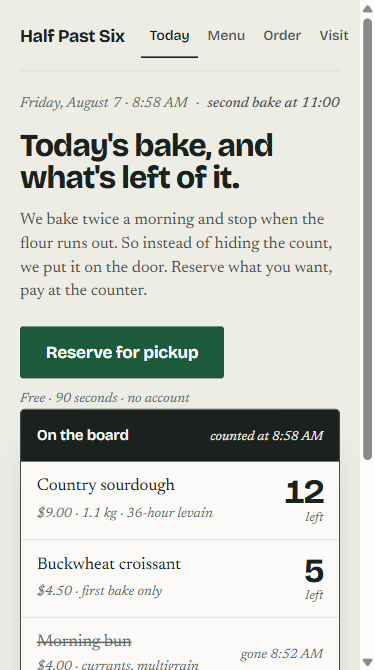
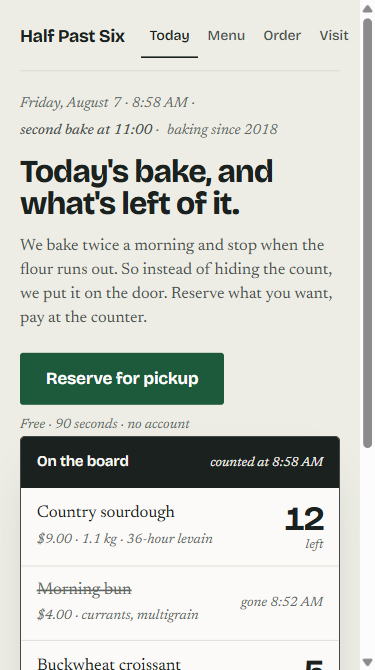
Phase 2 audit: fixes 01+03 and 05, rescore 7/7
Fold now owns the screen: min-height calc(100vh - 79px) with centered
columns on desktop (dead space 263px -> 0, column offset 204px -> 0), the
gone row moved to second position so the project signature lands inside the
375x670 fold (bottom 641px, was 685). Board rows breathe at 19px 22px,
head/foot at 15px.

Origin fact added to the stamp ("baking since 2018") to close research fear
number two above the fold. Side find: stamp separators re-anchored to
segment ends so a wrapped line never starts with a dangling dot.

Re-measured everything: zero contrast failures, zero taps under 44px, zero
horizontal overflow. Rescore in research/premium-audit.md: 7/7 after three
fix rounds from 3/7.

Changed region(s): [[0.0293, 0.1493, 0.9093, 1.0], [0.6453, 0.9552, 0.88, 1.0], [0.968, 0.6567, 0.9973, 0.6866]]

diff --git a/mockup/mockup.css b/mockup/mockup.css
@@ -94,7 +94,10 @@ body {
   display: flex; flex-wrap: wrap; gap: 4px 8px; align-items: baseline;
   font-variant-numeric: lining-nums;
 }
-.stamp b { color: var(--iron-2); font-weight: 500; }
+/* Разделительные точки сидят в конце сегмента, а не отдельными флекс-детьми:
+   иначе при переносе точка повисает в начале строки и читается как маркер */
+.stamp b { color: var(--iron-2); font-weight: 500; white-space: nowrap; }
+.stamp b .sep { color: var(--iron-3); font-weight: 400; }
 
 h1 {
   font-family: var(--display);
@@ -213,17 +216,22 @@ h1 {
   .site-nav a { font-size: 14.5px; padding: 0 11px; }
   .site-head { padding: 18px 0 16px; }
 
+  /* Аудит, пункты 01+03: контент кончался на 637px из 900 — 263px мёртвой
+     муки внизу и 204px под левой колонкой. Сгиб занимает весь экран за
+     вычетом шапки (79px) и центрирует обе колонки по вертикали */
   .fold {
     display: grid; grid-template-columns: minmax(0, 1fr) minmax(430px, 520px);
-    gap: 64px; align-items: start; padding: 56px 0 72px;
+    gap: 64px; align-items: center; padding: 48px 0;
+    min-height: calc(100vh - 79px);
   }
-  .fold > .col-left { padding-top: 6px; }
   .lede { font-size: 18.5px; margin-bottom: 28px; }
   .row .count { font-size: 46px; }
   .row .name { font-size: 18px; }
-  /* Отступы строк остаются пунктом 03 — здесь только иерархия */
-  .row { padding: 16px 20px; }
-  .board-head, .board-foot { padding-left: 20px; padding-right: 20px; }
+  /* Пункт 03: строки доски дышат, а не считают пиксели */
+  .row { padding: 19px 22px; }
+  .board-head { padding: 15px 22px; }
+  .board-foot { padding: 15px 22px; }
+  .board-foot a { margin: -16px 0; }
 }
 
 /* ================= Внутренний блок: заказ ================= */

diff --git a/mockup/index.html b/mockup/index.html
@@ -27,9 +27,9 @@
 
     <div class="col-left">
       <p class="stamp">
-        <span>Friday, August 7 · 8:58 AM</span>
-        <span>·</span>
-        <b>second bake at 11:00</b>
+        <span>Friday, August 7 · 8:58 AM ·</span>
+        <b>second bake at 11:00 <span class="sep">·</span></b>
+        <span>baking since 2018</span>
       </p>
 
       <h1>Today's bake, and what's left of it.</h1>
@@ -56,16 +56,16 @@
         <span class="count">12<small>left</small></span>
       </div>
 
-      <div class="row">
-        <span class="name">Buckwheat croissant</span>
-        <span class="desc">$4.50 · first bake only</span>
-        <span class="count">5<small>left</small></span>
-      </div>
-
       <div class="row gone">
         <span class="name">Morning bun</span>
         <span class="desc">$4.00 · currants, multigrain</span>
         <span class="count">gone 8:52 AM</span>
+      </div>
+
+      <div class="row">
+        <span class="name">Buckwheat croissant</span>
+        <span class="desc">$4.50 · first bake only</span>
+        <span class="count">5<small>left</small></span>
       </div>
 
       <div class="row soon">

diff --git a/research/premium-audit.md b/research/premium-audit.md
@@ -54,9 +54,37 @@
 Перезамер: нарушений контраста 0 (планка: заголовок 15.7:1, время 13.9:1),
 тап-зоны все ≥44px, тезисный элемент теперь самый громкий после h1.
 
-### 01 + 03 — в очереди, ждут реакции на 02
+### 01 + 03 — сделано
 
-### 05 — в очереди
+Строка «gone 8:52 AM» поднята на вторую позицию доски — подпись проекта
+вошла в мобильный сгиб. Десктопный сгиб получил `min-height: calc(100vh -
+79px)` и вертикальное центрирование обеих колонок; строки доски — 19px 22px,
+шапка и подвал — 15px.
 
-Формулировка факта происхождения зависит от легенды (год 2018 утверждён в
-интейке), адрес появится только после проверки в фазе 3.
+Перезамер: низ строки gone на 375×670 — 641px (было 685); на 1440×900 сгиб
+кончается ровно на 900px — мёртвой пустоты 0px (было 263), разница центров
+колонок 0px (было 204 под левой). Переполнения нет, тап-зон < 44px нет.
+
+### 05 — сделано
+
+Штамп получил факт происхождения: «baking since 2018» (год утверждён в
+интейке; адрес появится только после проверки в фазе 3). Попутная находка на
+скриншоте: при переносе штампа разделительная точка повисала в начале строки
+и читалась как маркер списка — точки приклеены к концу сегментов
+(`index.html:29-33`, `.stamp b .sep`).
+
+## Перезачёт после правок
+
+```
+01 Hero           PASS — 375×670: штамп, h1, подводка, CTA и строка gone в
+                  сгибе (низ 641px); 1440×900: сгиб владеет экраном целиком
+02 Hierarchy      PASS — тёмная планка доски, счётчики 46px, один залитый CTA
+03 Whitespace     PASS — мёртвой пустоты 0px, строки 19px 22px
+04 Contrast       PASS — обход всех узлов: 0 ниже порога
+05 Social proof   PASS — происхождение в штампе, «counted at 8:58 AM» в
+                  планке; полный блок процесса — блок 5 главной
+06 Typography     PASS — 2 семейства, тело 16px/1.55
+07 Mobile         PASS — переполнение 0, тап-зоны ≥ 44px
+
+Счёт: 7/7 (после трёх раундов правок с 3/7; каждый пункт перезамерен)
+```

diff --git a/research/decisions.md b/research/decisions.md
@@ -48,3 +48,6 @@
 | 2.12 | Акцент вычищен до строго одной работы: из штампа, ссылок, выбранных состояний и фокуса `fir` убран | Ревизия по следам 2.11 нашла четыре протечки зелёного мимо кнопки. Ссылки — подчёркивание в цвете текста, выделение и фокус — `iron` |
 | 2.13 | Макет прогнан через премиум-чек-лист: счёт 3/7, отчёт в `premium-audit.md`, правки идут по одной | Заказчик на воротах: «всё выглядит ужасно». Аудит подтвердил три провала замерами — доска растворялась в фоне, герой не владел экраном, страх №2 не закрыт. Вкус заменён числами |
 | 2.14 | Шапка доски — тёмная планка `iron` со светлым текстом, рамка `iron`, тень-отрыв, числа до 46px | Пункт 02 аудита: тезисный элемент был свёрстан тише собственного заголовка. Тёмная планка и есть доска за прилавком — единственный тёмный якорь страницы |
+| 2.15 | Десктопный сгиб владеет экраном: `min-height: calc(100vh - 79px)`, колонки центрированы; строка gone — вторая на доске | Пункты 01+03 аудита: 263px пустоты внизу и 204px под колонкой — вычислено, не показалось. На мобильном подпись проекта («gone 8:52») обязана попадать в сгиб 670px, теперь низ на 641 |
+| 2.16 | Факт происхождения — в штампе первого экрана: «baking since 2018» | Пункт 05: страх №2 исследования («это не они пекут») не был закрыт ничем выше сгиба. Год из интейка; адрес — только после проверки фазы 3 |
+| 2.17 | Разделительные точки штампа сидят в конце сегмента, не отдельными флекс-детьми | Находка на скриншоте 375: при переносе точка повисала в начале строки и читалась как маркер списка |
